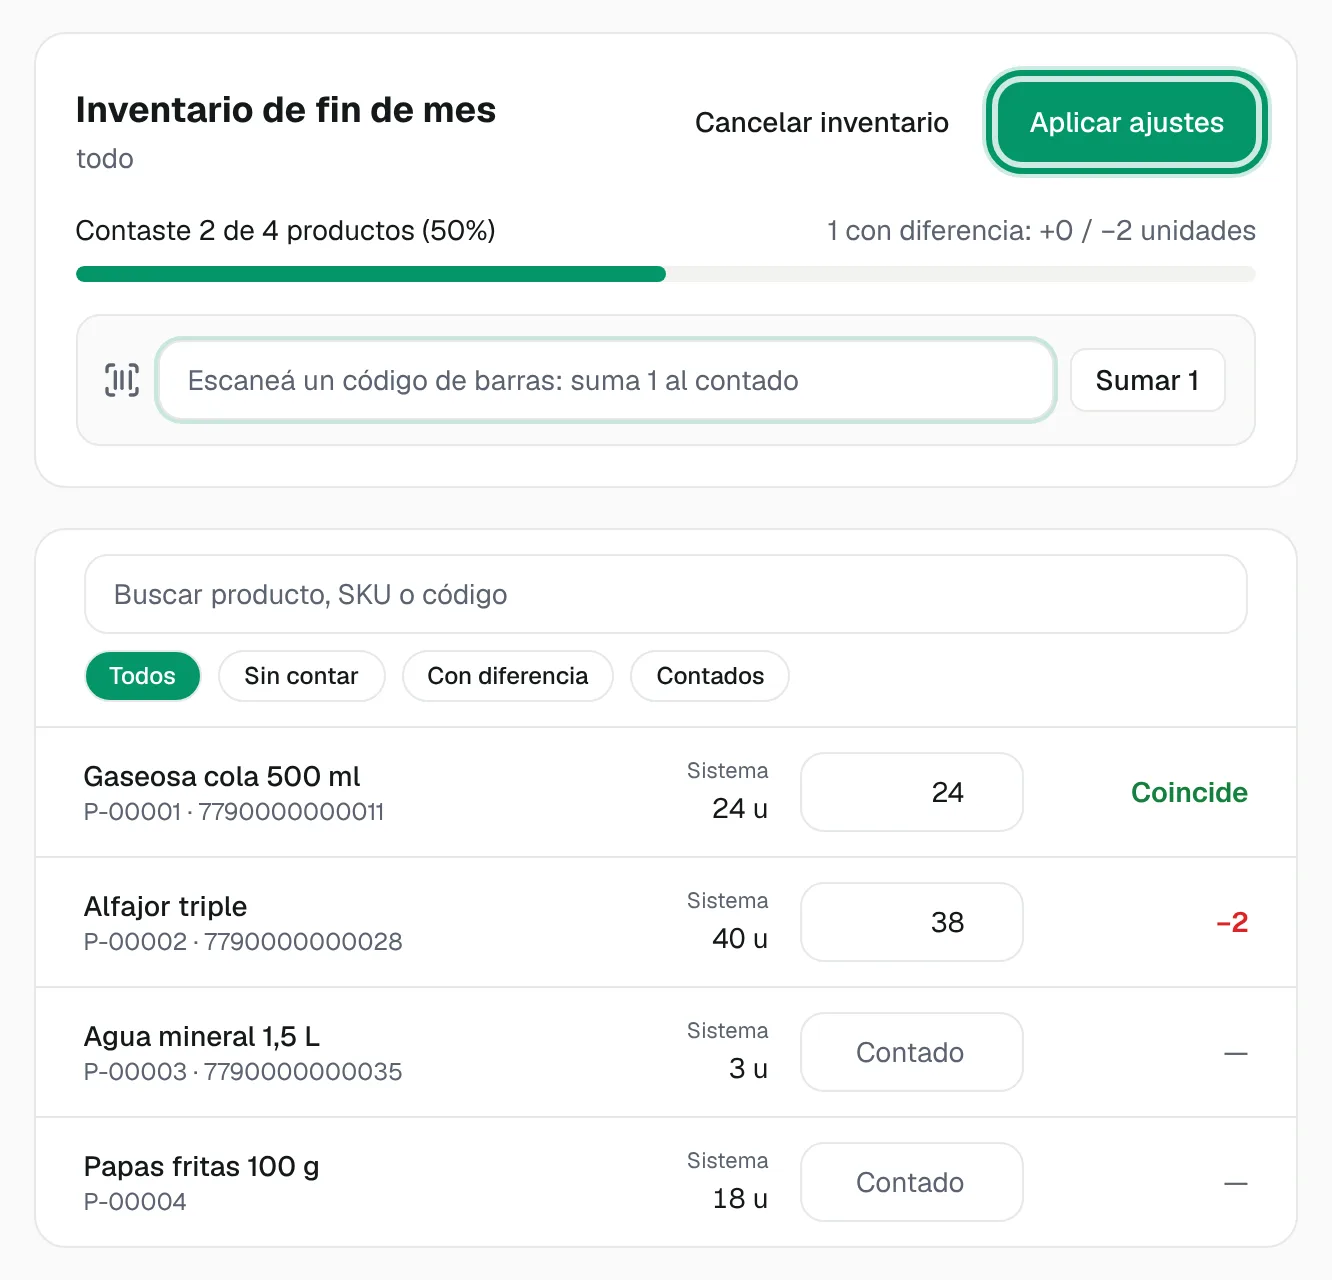
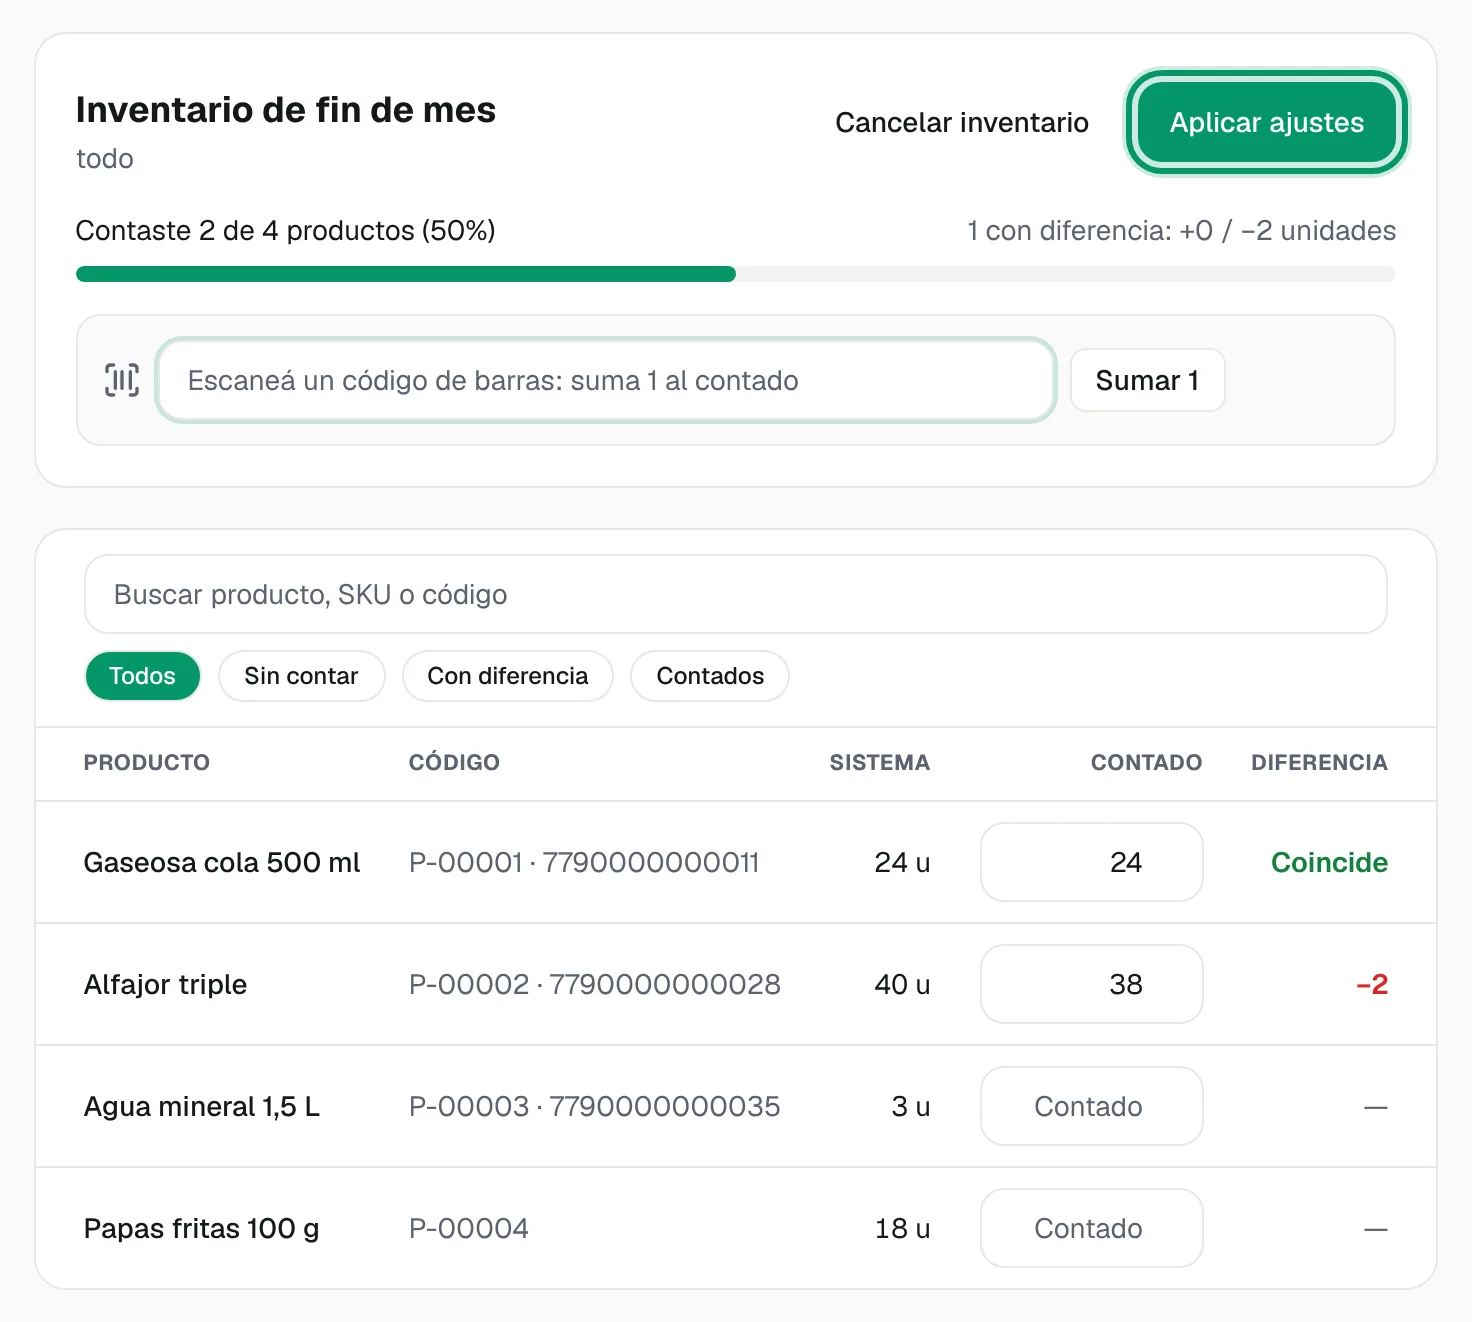
Capturas de ayuda y PROGRESS: listas con columnas
Claude-Session: https://claude.ai/code/session_01T9B8RUjLyk6jBRPz1fBipT

diff --git a/PROGRESS.md b/PROGRESS.md
@@ -17,7 +17,8 @@ Probamos la app simulando un cliente mediano: almacén con 1.600 productos, 381 
 - **Caja:** el historial de cierres trae todos los del período (antes tope de 20), con totales (cierres, con faltante, faltante total, diferencia neta), filtro por persona y "sólo con diferencia", columnas ordenables y paginación.
 - **Resumen:** tarjeta "Qué hacer ahora" (`lib/report-actions.ts`, con test): hasta 3 acciones para sumar y 3 para revisar o sacar, con los avisos del negocio. Es para todos los planes; el stock parado necesita Plan Max (se muestra con aviso de plan).
 - **Otros reportes:** Quién te debe en tabla (Cliente, Último pago, Debe) y margen potencial en Stock valorizado.
-- Pendiente: vistas ordenables y paginadas en el resto de las listas del sistema (principio de listas con columnas).
+- **Listas con columnas** (principio: una lista de datos es una tabla con columnas, ordenable y paginada): ya son tabla Reportes (Ventas, Por usuario, Caja, Quién te debe), Movimientos de stock, Tu equipo e invitaciones, Recomendaciones de precios, Conteo de inventario, Calendario de pagos (todas las compras, ahora paginada), En vivo (últimas ventas) y ventas del cliente/caja (`VentasList`). Proveedores ya tenía columnas. Encabezado ordenable compartido: `components/dashboard/sortable-th.tsx`. Quedan como lista a propósito: sucursales y avisos (son ajustes, no datos) y las tarjetas de vendedores de En vivo.
+- Pendiente: pasar al `SortTh` compartido los encabezados propios de Por usuario, Caja y Movimientos (hoy cada uno trae el suyo).
 
 ## Hecho: IndexNow para Bing (17/11/2026)
 - Archivo de clave `public/indexnow-<clave>.txt` (público a propósito, permitido en el middleware) y `node scripts/indexnow.mjs`, que avisa a Bing de todas las páginas del sitemap. Correrlo después de un despliegue con páginas nuevas. Search Console de Google no usa IndexNow: ahí se pide a mano (límite diario).
